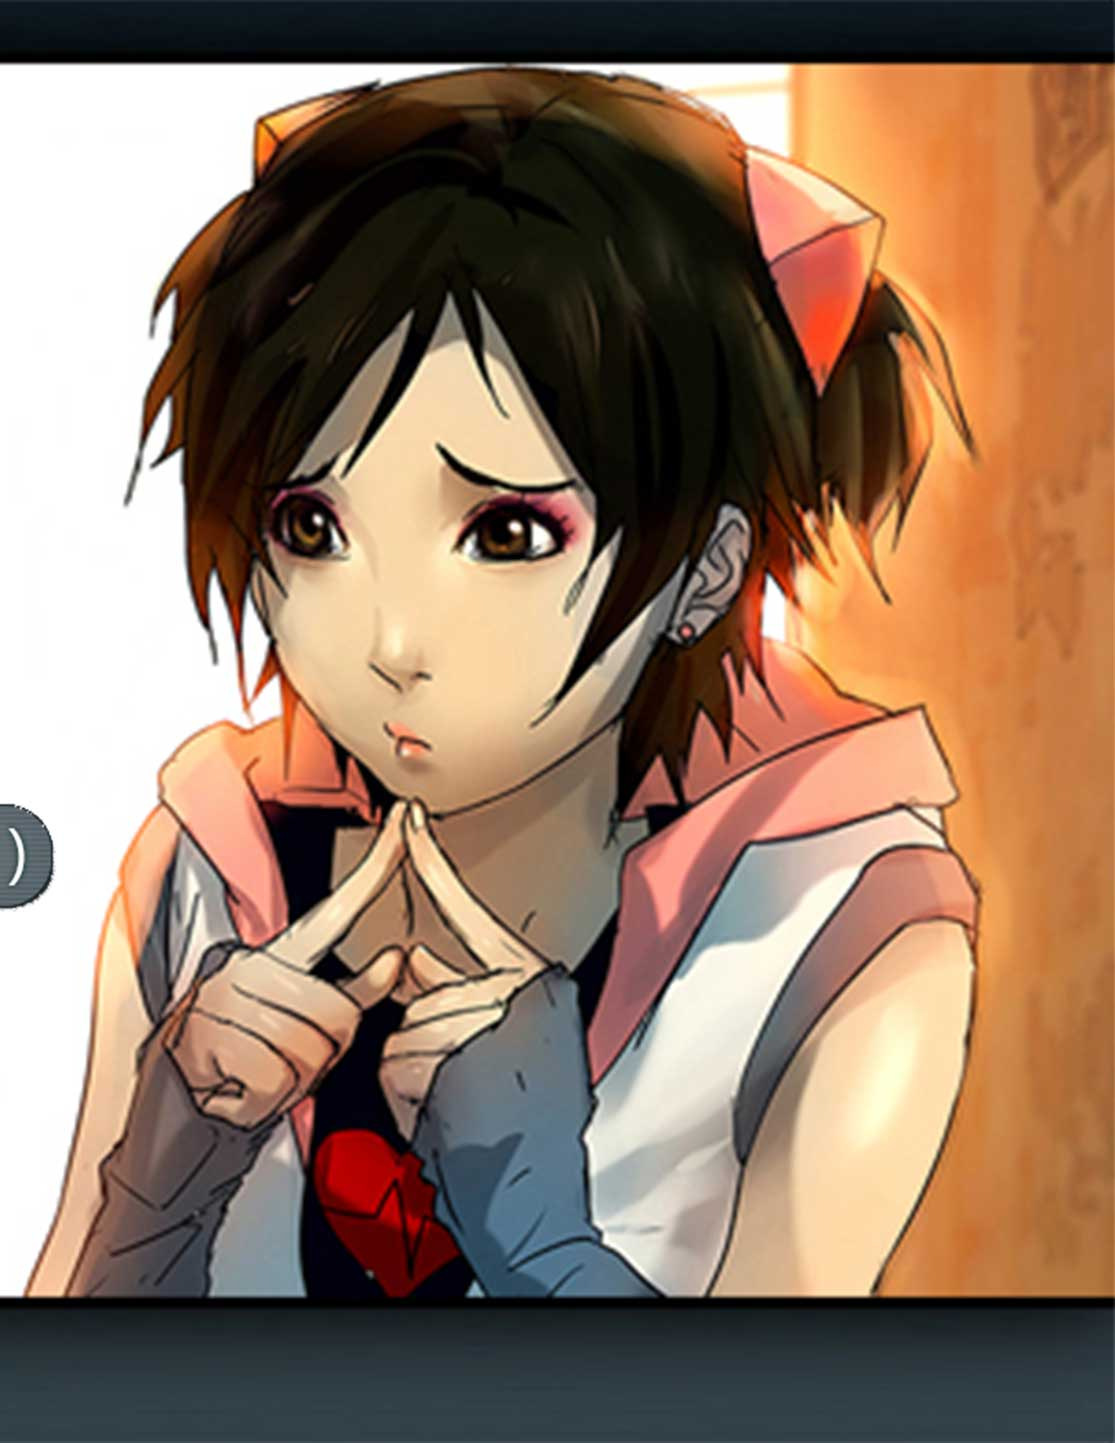
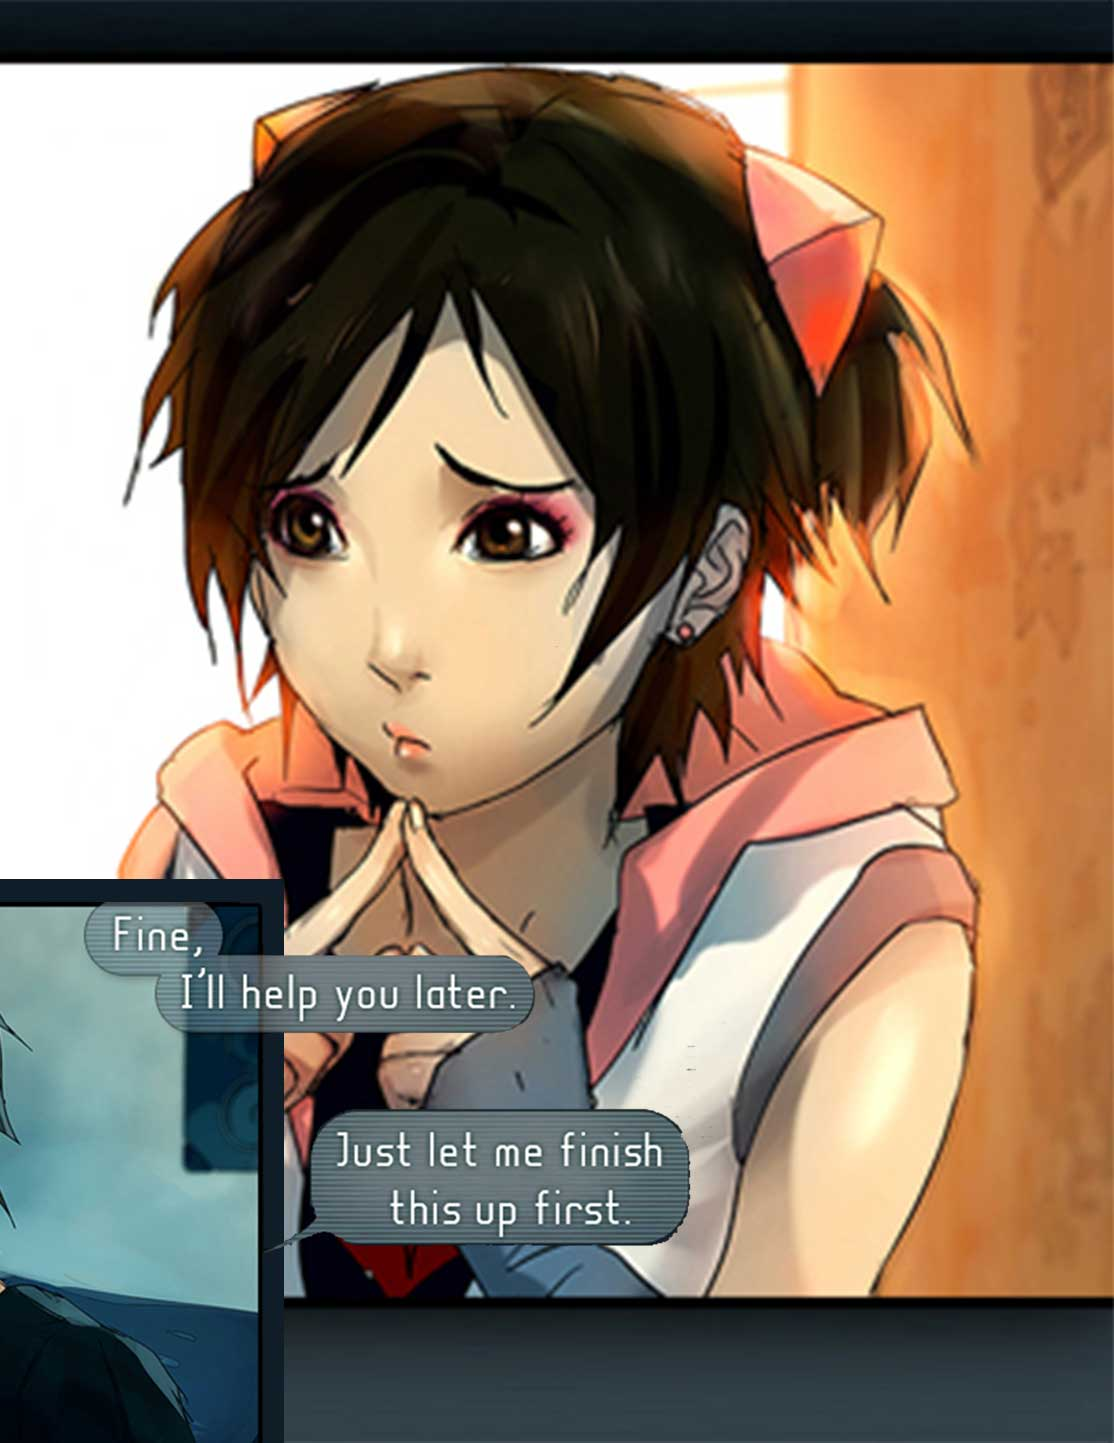
Fixing story at page 18 & 19

diff --git a/manuscript/page-18/style.css b/manuscript/page-18/style.css
@@ -1,0 +1,9 @@
+body {
+    background-image: url(//raw.githubusercontent.com/marvindanig/fisheye-placebo-varsity/master/assets/images/18.jpg);
+}
+
+blockquote.speech {
+    position: absolute;
+    left: 5vw;
+    bottom: 5vw;
+}

diff --git a/manuscript/page-19/style.css b/manuscript/page-19/style.css
@@ -1,0 +1,9 @@
+body {
+    background-image: url(//raw.githubusercontent.com/marvindanig/fisheye-placebo-varsity/master/assets/images/19.jpg);
+}
+
+blockquote.speech {
+    position: absolute;
+    left: 5vw;
+    bottom: 5vw;
+}
